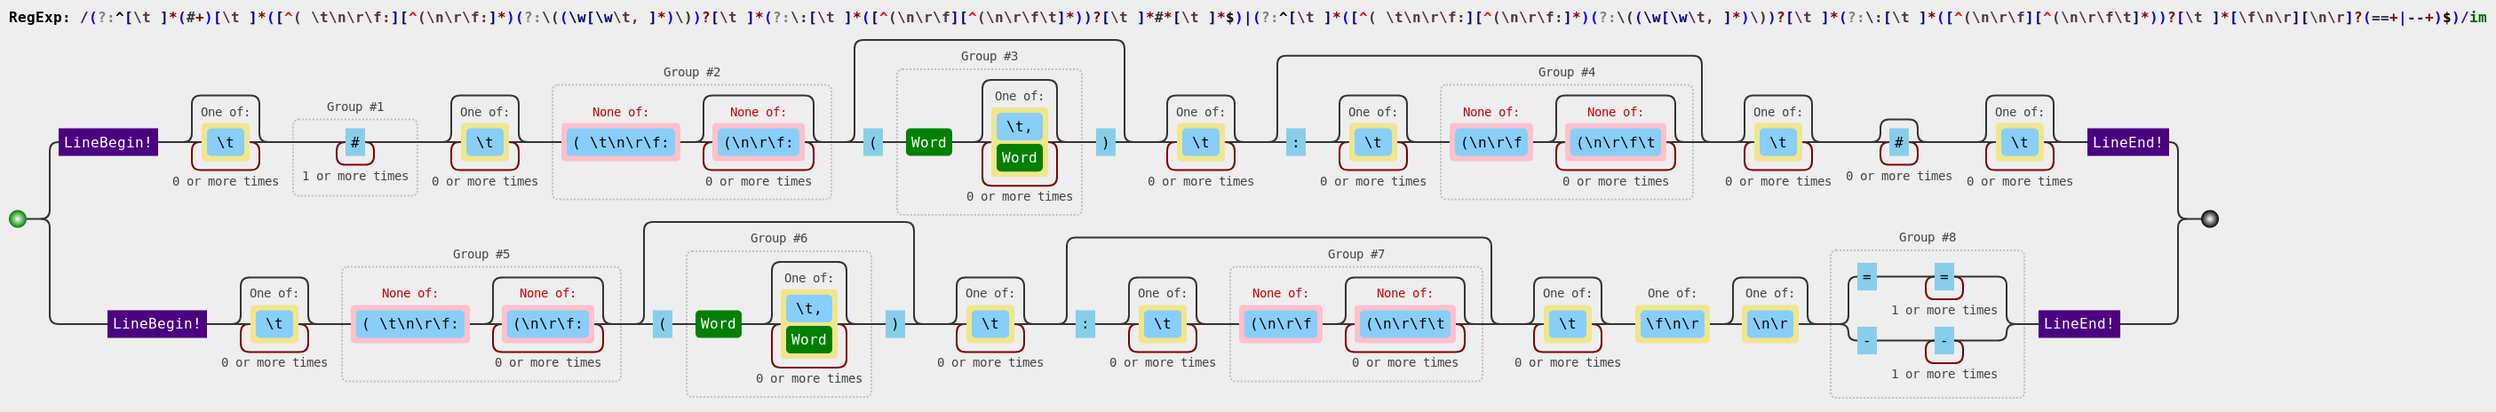
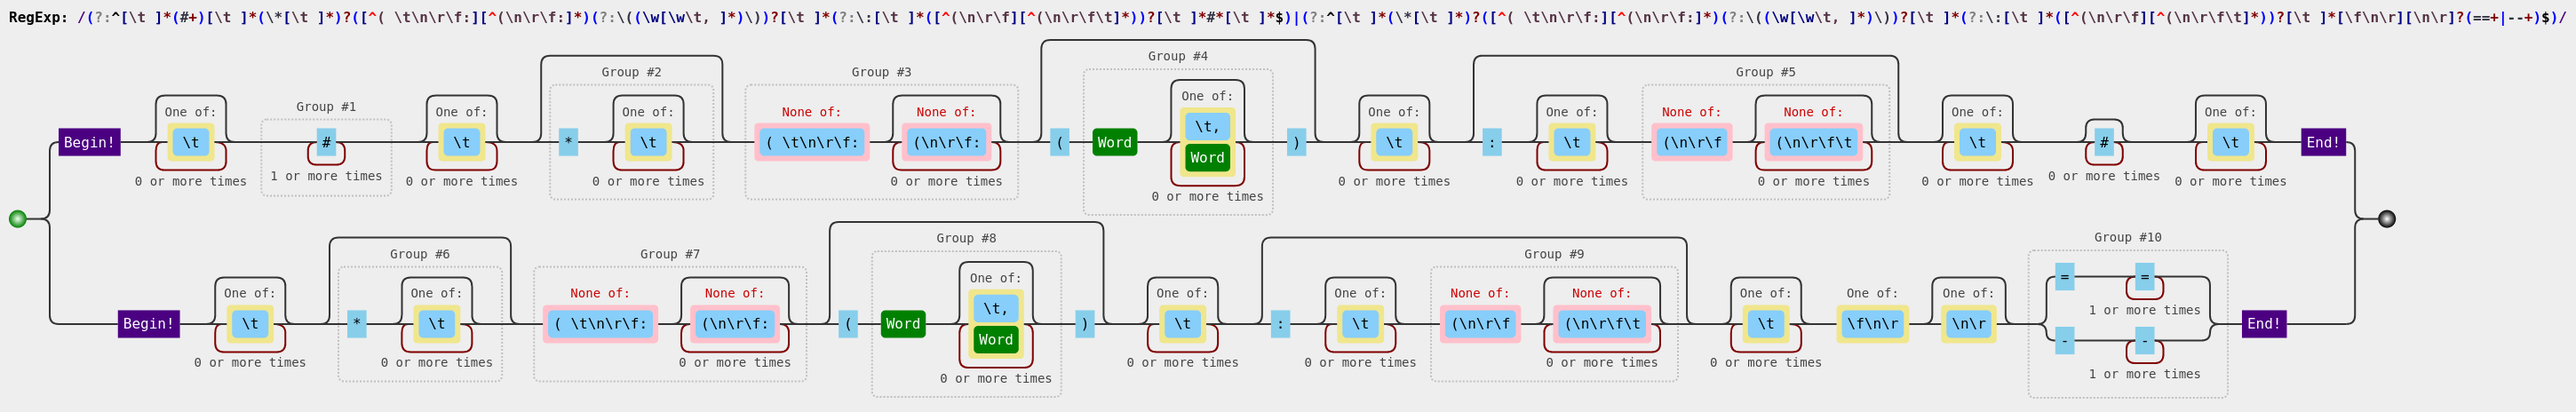
refactor (knot): new knot syntax

diff --git a/versum/syntax.md b/versum/syntax.md
@@ -43,18 +43,19 @@ __ [title] __
 ### Markdown to Object
 * Sentence:
 ~~~
-## [title] ([category],..,[category]): [inheritance] ##
+## * [title] ([category],..,[category]): [inheritance] ##
 ~~~
 or
 ~~~
-[title] ([category],..,[category]): [inheritance]
+* [title] ([category],..,[category]): [inheritance]
 =====
 ~~~             
-* Expression: `(?:^[ \t]*(#+)[ \t]*([^\( \t\n\r\f\:][^\(\n\r\f\:]*)(?:\((\w[\w \t,]*)\))?[ \t]*(?:\:[ \t]*([^\(\n\r\f][^\(\n\r\f\t]*))?[ \t]*#*[ \t]*$)|(?:^[ \t]*([^\( \t\n\r\f\:][^\(\n\r\f\:]*)(?:\((\w[\w \t,]*)\))?[ \t]*(?:\:[ \t]*([^\(\n\r\f][^\(\n\r\f\t]*))?[ \t]*[\f\n\r][\n\r]?(==+|--+)$)`
-  * Group #1 or Group #8: level of the knot (acordding to the number of # or the underline type === or ---)
-  * Group #2 or Group #5: title
-  * Group #3 or Group #6: [categories]
-  * Group #4 or Group #7: inheritance
+* Expression: `(?:^[ \t]*(#+)[ \t]*(\*[ \t]*)?([^\( \t\n\r\f\:][^\(\n\r\f\:]*)(?:\((\w[\w \t,]*)\))?[ \t]*(?:\:[ \t]*([^\(\n\r\f][^\(\n\r\f\t]*))?[ \t]*#*[ \t]*$)|(?:^[ \t]*(\*[ \t]*)?([^\( \t\n\r\f\:][^\(\n\r\f\:]*)(?:\((\w[\w \t,]*)\))?[ \t]*(?:\:[ \t]*([^\(\n\r\f][^\(\n\r\f\t]*))?[ \t]*[\f\n\r][\n\r]?(==+|--+)$)`
+  * Group #1 or Group #10: level of the knot (acordding to the number of # or the underline type === or ---)
+  * Group #2 or Group #6: unity knot mark
+  * Group #3 or Group #7: title
+  * Group #4 or Group #8: [categories]
+  * Group #5 or Group #9: inheritance
 ![Knot Expression](expressions/knot.png)
 * Object:
 ~~~
